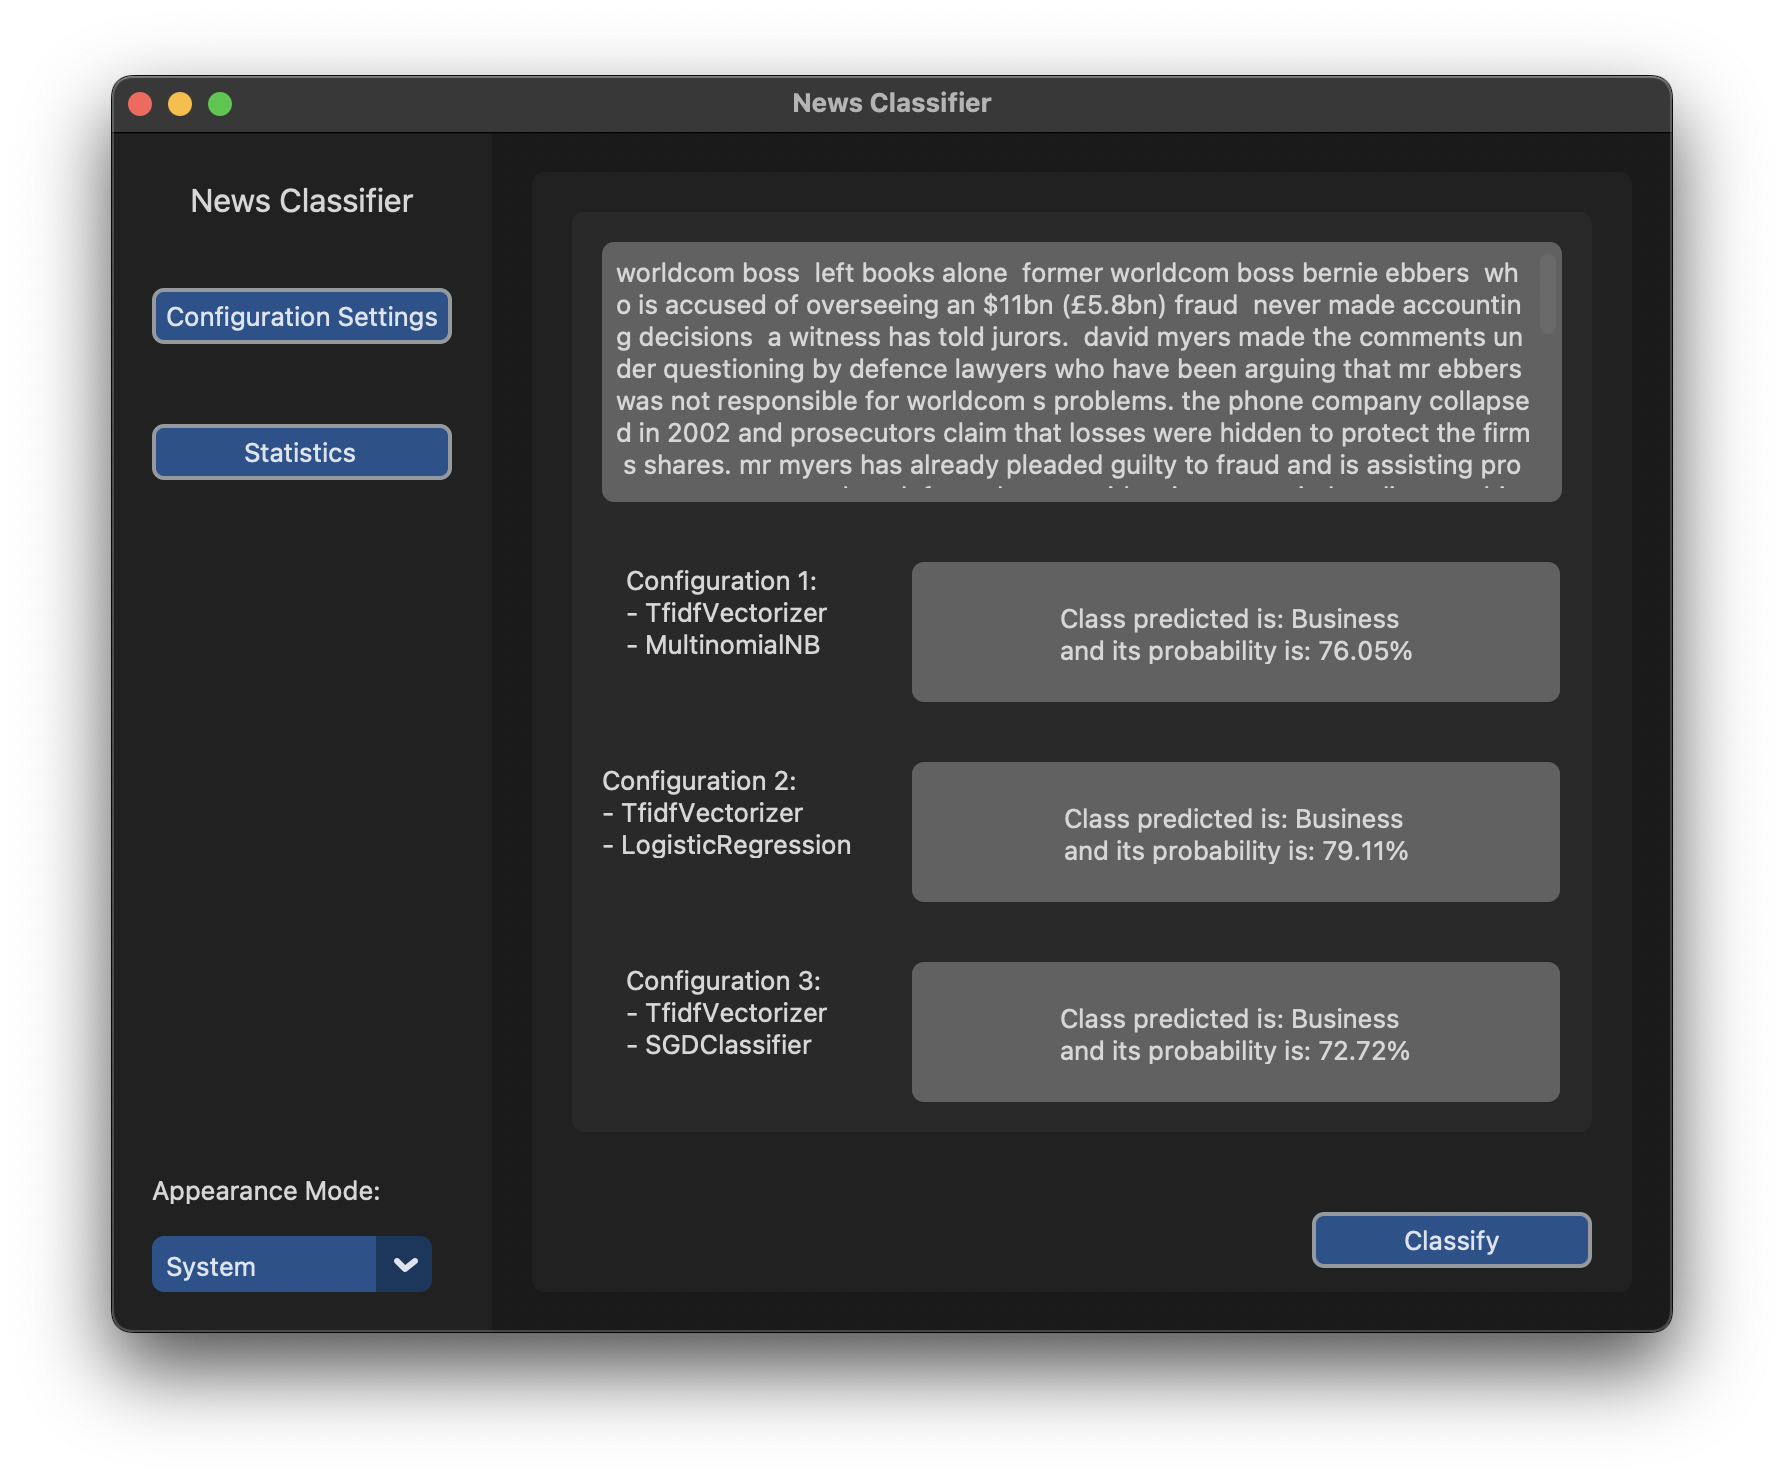
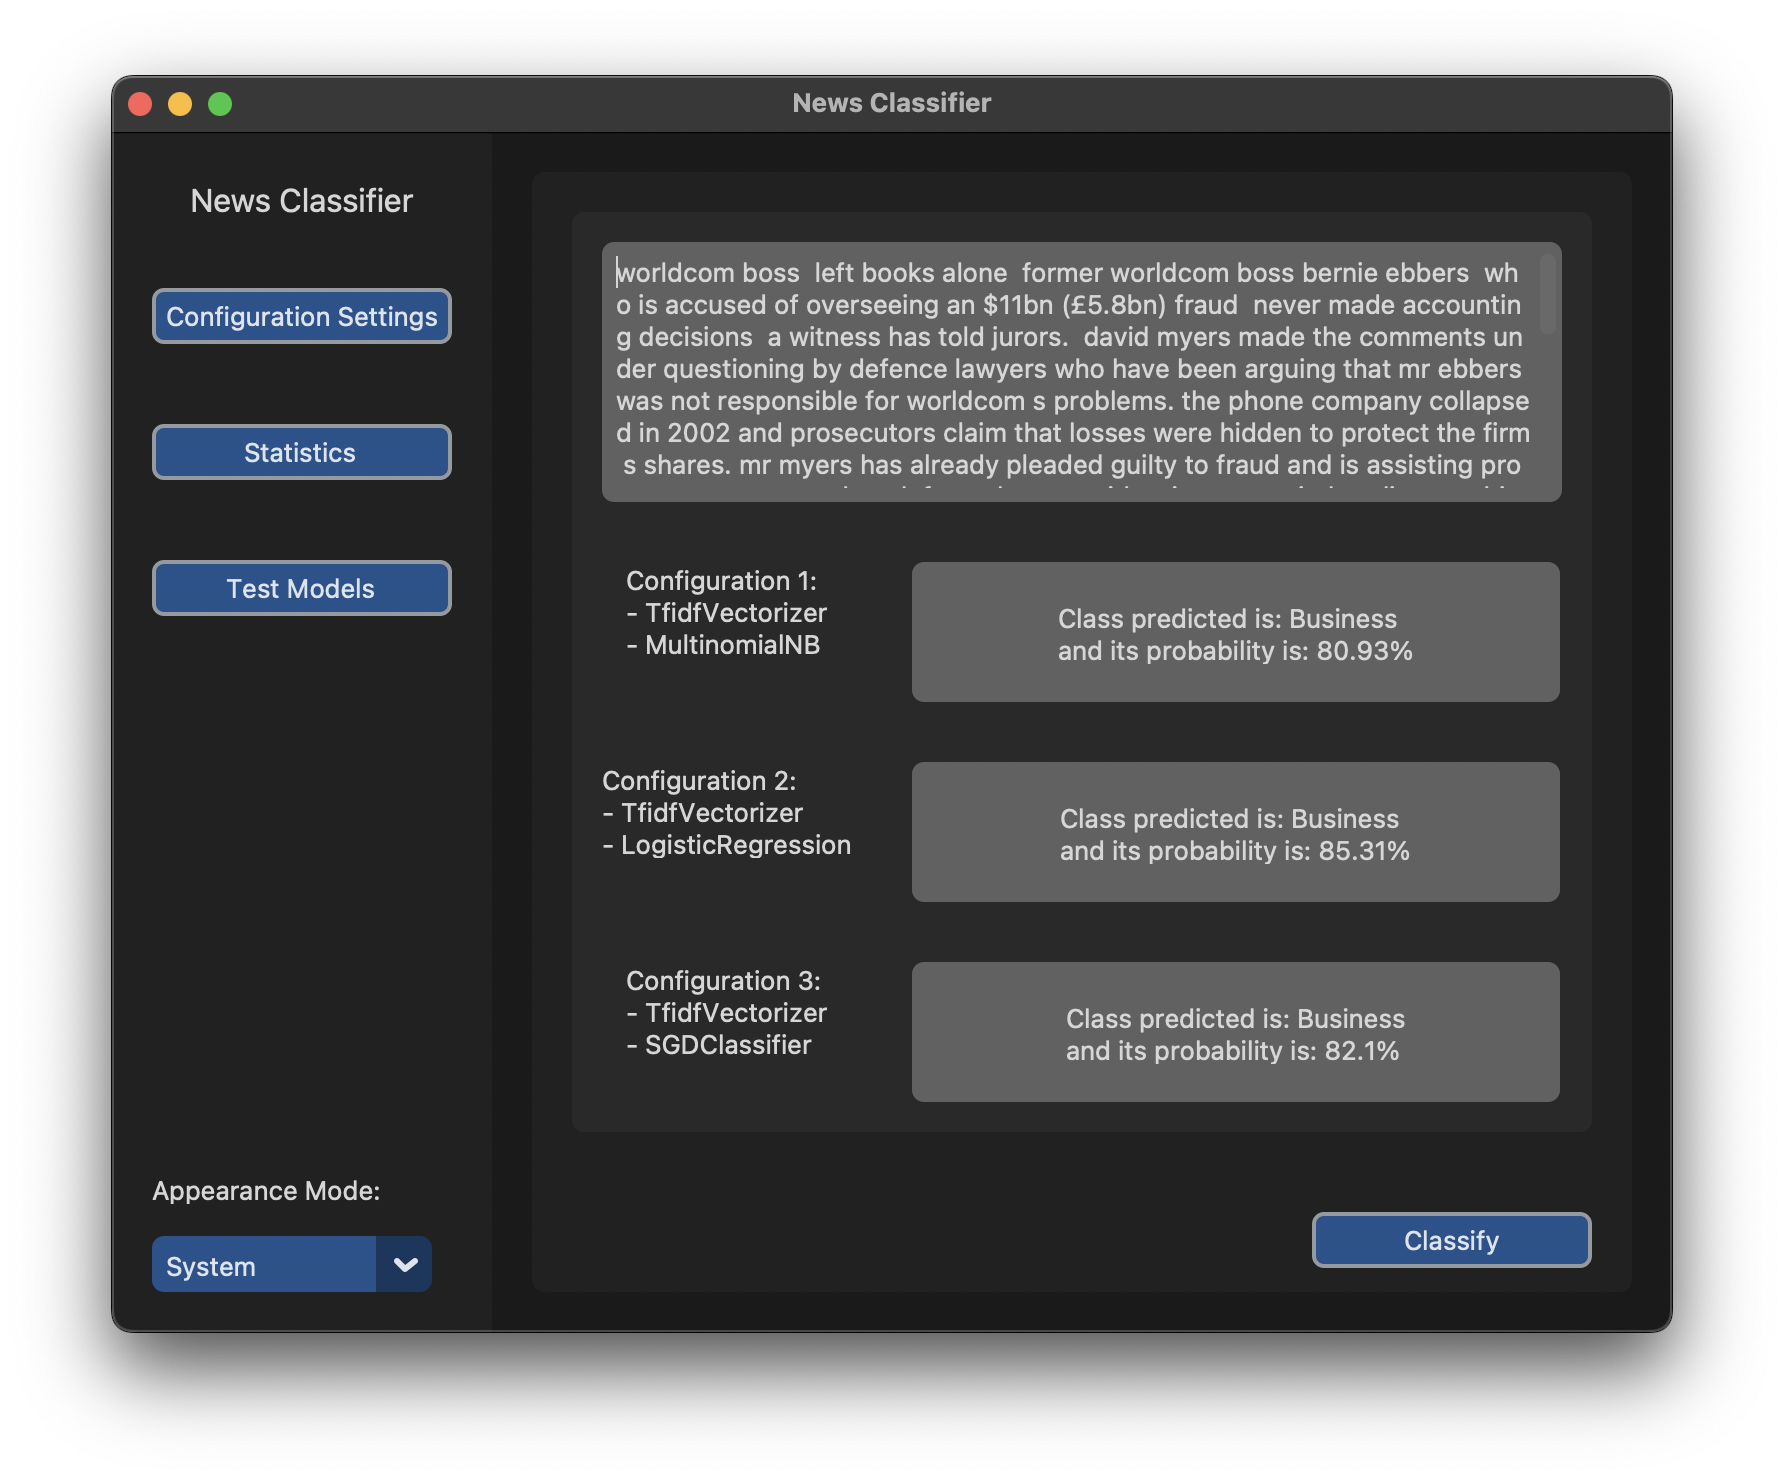
Improved code

diff --git a/src/gui/WindowTest.py b/src/gui/WindowTest.py
@@ -27,16 +27,15 @@ class WindowTest(customtkinter.CTk):
         self.frame_test = customtkinter.CTkFrame(master=self)
         self.frame_test.grid(row=7, column=2, pady=20, padx=20, sticky="nsew")
 
-        self.label_text_classes = [list(self.parentWindow.classifiers[0].classes.values())[i]
-                                   for i in range(len(self.parentWindow.classifiers[0].classes.values()))]
+        self.label_text_classes = list(classes for classes in self.parentWindow.classifiers[0].classes.values())
 
         self.label_text = ["Column Text", "Column Classes"] + self.label_text_classes
 
         self.label = ["label_csv", "label_column_text", "label_column_class"] + \
-                     ["label_" + self.label_text_classes[i] for i in range(len(self.label_text_classes))]
+                     ["label_" + label_text_class for label_text_class in self.label_text_classes]
 
         self.entry = ["entry_column_text", "entry_column_class"] + \
-                     ["entry_" + self.label_text_classes[i] for i in range(len(self.label_text_classes))]
+                     ["entry_" + label_text_class for label_text_class in self.label_text_classes]
 
         self.button_load_csv = customtkinter.CTkButton(master=self.frame_test,
                                                        text="Load CSV",
@@ -110,13 +109,11 @@ class WindowTest(customtkinter.CTk):
                 class_predicted_probability = classifier.model.predict_proba(pd.Series(row[column_text]))
                 df_test.at[index, "ClassPredicted" + classifier.name[15:]] = class_predicted
                 df_test.at[index, "Probability" + classifier.name[15:]] = round(class_predicted_probability[0][np.argmax(class_predicted_probability)], 2)
-                df_test.at[index, "IsCorrectPredict" + classifier.name[15:]] = 1 if str(df_test.at[index, column_class]) not in dict_classes[class_predicted] else 0
-        df_test.to_csv(path_csv[:-4] + "_new" + path_csv[-4:], index=False, mode='w+')
-        accuracy = [classifier.name[15:] + ": " + str((1 - round(sum(df_test["IsCorrectPredict" + classifier.name[15:]])/len(df_test), 4))*100) + "%\n"
+                df_test.at[index, "Correctness" + classifier.name[15:]] = 1 if str(df_test.at[index, column_class]) not in dict_classes[class_predicted] else 0
+        df_test.to_csv(path_csv[:-4] + "_predictions" + path_csv[-4:], index=False, mode='w+')
+        accuracy = [classifier.name[15:] + ": " + "%.2f" % ((1 - round(sum(df_test["IsCorrectPredict" + classifier.name[15:]])/len(df_test), 4))*100) + "%\n"
                     for classifier in self.parentWindow.classifiers]
-        string = 'The operation is concluded\n Accuracy:\n'
-        for acc in accuracy: string = string + acc
-        tkinter.messagebox.showinfo('News Classifier', string)
+        tkinter.messagebox.showinfo('News Classifier', 'The operation is concluded\n Accuracy:\n' + "".join(accuracy))
 
     def on_closing(self):
         """

diff --git a/src/statistic/Statistics.py b/src/statistic/Statistics.py
@@ -29,8 +29,7 @@ class Statistics:
             sns.countplot(x=self.column_target, data=data_original if index == 0 else data_cleaned, ax=axes[index])
             axes[index].set_xticklabels(self.classes_array)
             axes[index].tick_params(axis='x', labelrotation=90)
-            axes[index].set_title(('Before' if index == 0 else 'After') +
-                                  ' removal of tuples with NaN and duplicated values')
+            axes[index].set_title(('Before' if index == 0 else 'After') + ' removal of tuples with NaN and duplicated values')
         plt.show()
 
     def calculate_information(self):
@@ -140,8 +139,8 @@ class Statistics:
         """
         y_predict = self.classifier.model.predict(self.classifier.X_test)
         return classification_report(self.classifier.y_test, y_predict, target_names=self.classes_array) + "\n\n" + \
-               str(f'Final Training Accuracy: {round(self.classifier.model.score(self.classifier.X_train, self.classifier.y_train),2) * 100}%') + "\n" + \
-               str(f'Model Accuracy: {round(self.classifier.model.score(self.classifier.X_test, self.classifier.y_test),2) * 100}%')
+               'Final Training Accuracy: ' + "%.2f" % (self.classifier.model.score(self.classifier.X_train, self.classifier.y_train) * 100) + '%\n' + \
+               'Model Accuracy: ' + "%.2f" % (self.classifier.model.score(self.classifier.X_test, self.classifier.y_test) * 100) + '%'
 
     def confusion_matrix(self, title):
         """

diff --git a/src/gui/WindowStatistics.py b/src/gui/WindowStatistics.py
@@ -177,19 +177,19 @@ class WindowStatistics(customtkinter.CTk):
         """
         Method to display classification report of classifierTfidfMultinomialNB
         """
-        self.create_toplevel(self.statistic_classifiers[0].calculate_metrics(), "Metrics Configuration 1")
+        self.create_toplevel(self.statistic_classifiers[0].calculate_metrics(), "Classification Report Configuration 1")
 
     def button_event_metrics_2(self):
         """
         Method to display classification report of classifierTfidfLogReg
         """
-        self.create_toplevel(self.statistic_classifiers[1].calculate_metrics(), "Metrics Configuration 2")
+        self.create_toplevel(self.statistic_classifiers[1].calculate_metrics(), "Classification Report Metrics Configuration 2")
 
     def button_event_metrics_3(self):
         """
         Method to display classification report of classifierTfidfSGD
         """
-        self.create_toplevel(self.statistic_classifiers[2].calculate_metrics(), "Metrics Configuration 3")
+        self.create_toplevel(self.statistic_classifiers[2].calculate_metrics(), "Classification Report Metrics Configuration 3")
 
     def button_event_cm1(self):
         """

diff --git a/src/classifier/ClassifierTfidfMultinomialNB.py b/src/classifier/ClassifierTfidfMultinomialNB.py
@@ -18,7 +18,7 @@ class ClassifierTfidfMultinomialNB(Classifier):
         """
         return Pipeline(super().create_pipeline().steps.__add__(
             [('multinomial', GridSearchCV(MultinomialNB(),
-                                          param_grid={'alpha': (1, 0.9, 0.8, 0.7, 0.6, 0.5, 0.4, 0.3, 0.1, 0.05, 0.01,
-                                                                0.001, 0.0001, 0.00001)},
+                                          param_grid={'alpha': [1, 0.9, 0.8, 0.7, 0.6, 0.5, 0.4, 0.3, 0.1, 0.05, 0.01,
+                                                                0.001, 0.0001, 0.00001]},
                                           cv=StratifiedKFold(n_splits=10),
                                           scoring='accuracy'))]))

diff --git a/src/configuration/ConfigFile.py b/src/configuration/ConfigFile.py
@@ -50,7 +50,7 @@ class ConfigFile:
         Method to read all attributes (relative to dataset) of the configuration file
         :return: array
         """
-        return [self.read_attribute(self.config_file_dataset, self.key[index]) for index in range(len(self.key))]
+        return [self.read_attribute(self.config_file_dataset, key) for key in self.key]
 
     def read_attribute(self, section, attribute):
         """

diff --git a/README.md b/README.md
@@ -14,7 +14,7 @@ The process to classify the text has composed by three steps:
 1. Preprocess
    * Text preprocess is a very important phase, that include:
      * Expanding contraction (only for english language)
-     * Removal of stopwords, punctuation, html tags, diacritics, digits and extra whitespaces
+     * Removal of stopwords, punctuation, html tags, urls, diacritics, digits and extra whitespaces
      * Stemming
      * Lemmatization
 2. <a href="https://scikit-learn.org/stable/modules/generated/sklearn.feature_extraction.text.TfidfVectorizer.html">TfidfVectorizer</a>
@@ -81,10 +81,10 @@ When the application is open the user can write one news into the textbox
 and click on "Classify" button to classify it into the predicted topic.
 
 If the user wants change dataset can select a new dataset and set up some setting 
-(for example the names of the columns relative to text to classify and to true label) clicking on "Configuration
+(for example the names of the columns relative to text to classify and to true label) click on "Configuration
 Settings" button.
 
-Moreover, is possible to view same statistics (clicking on "Statistics" button), 
+Moreover, is possible to view same statistics (click on "Statistics" button), 
 in particular they are on:
 * Dataset:
   * Class Distribution
@@ -98,6 +98,8 @@ in particular they are on:
   * Class Prediction Error
 
 The statistics on classifiers are for each classifier.
+
+With "Test Models" button is possible to test fitted models on a different dataset.
 
 The image below is the home of application:
 
